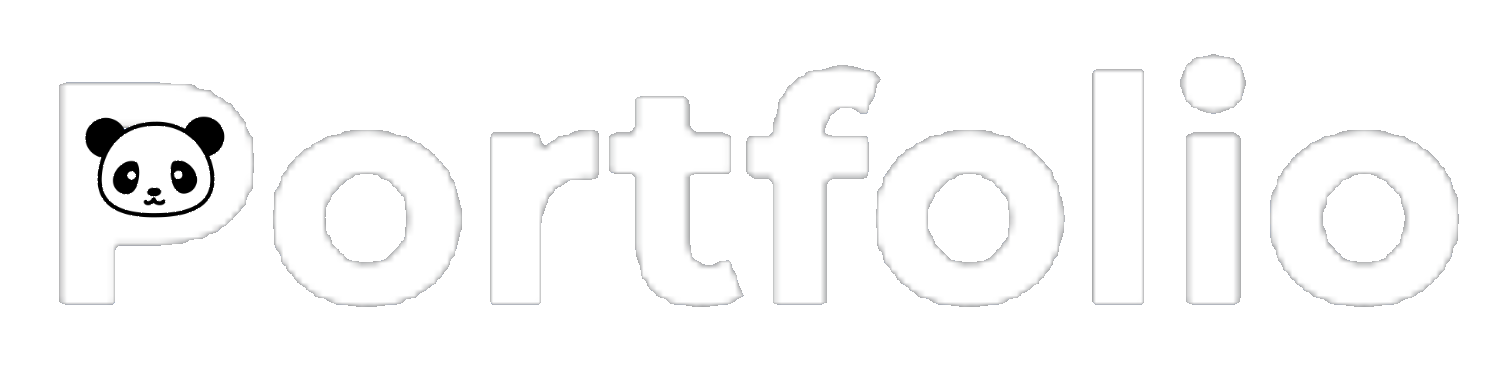
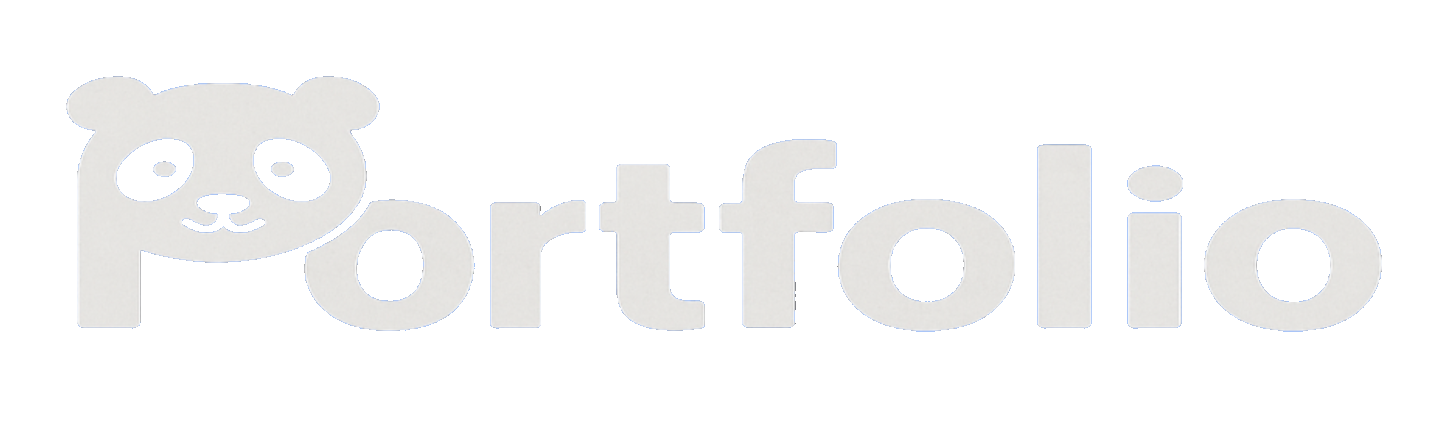
ロゴを新しく

diff --git a/styles.css b/styles.css
@@ -960,3 +960,6 @@ body.dark-mode #modal-embed {
 }
 
 /* 必要に応じて、他のパーツも調整してください */
+body.dark-mode h2{
+  border-color: #d8d8d8;
+}
